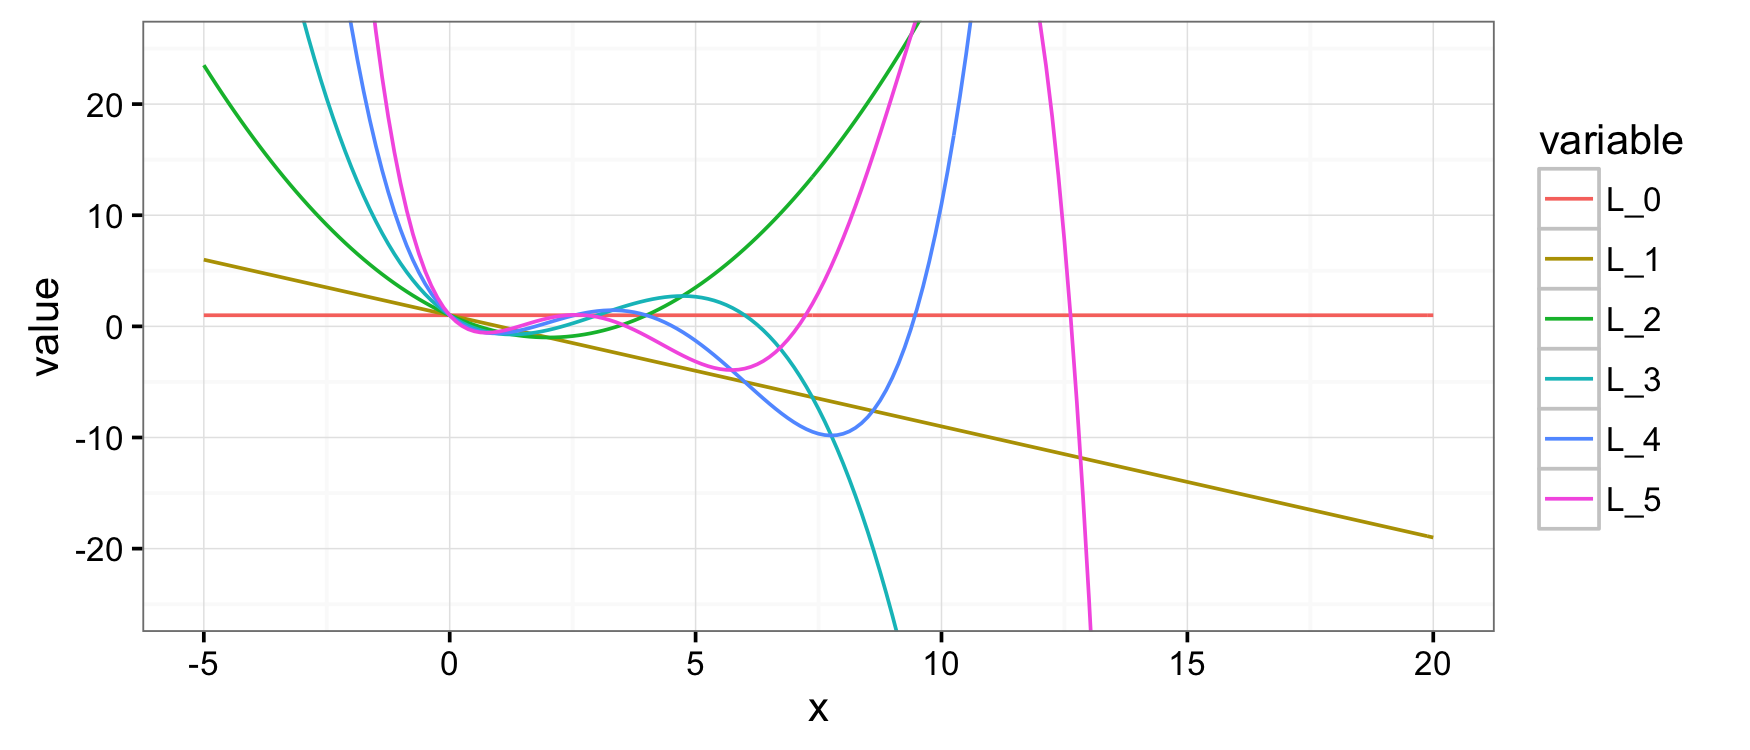
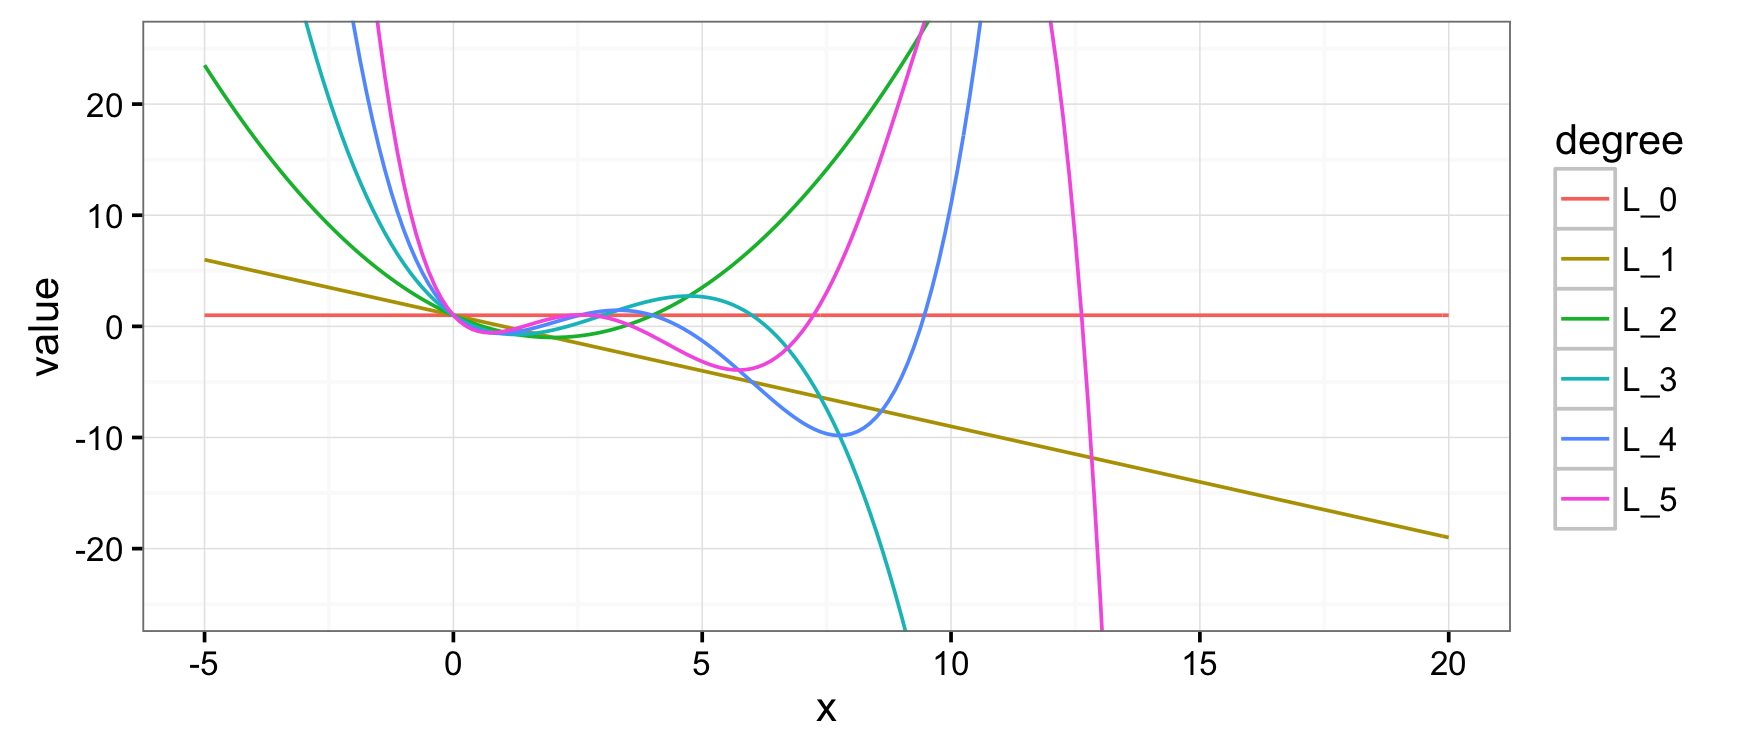
update readme to use tidyr::gather

diff --git a/README.md b/README.md
@@ -160,13 +160,11 @@ Function coercion
 You can turn polynomials and vectors of polynomials into functions you can evaluate with `as.function()`. Here's a basic example using a single multivariate polynomial:
 
 ``` r
-(p <- mp("x + 2 y"))
-#> x  +  2 y
-f <- as.function(p) # makes a function with a vector argument
+f <- as.function(mp("x + 2 y")) # makes a function with a vector argument
 #> f(.) with . = (x, y)
 f(c(1,1))
 #> [1] 3
-f <- as.function(p, vector = FALSE) # makes a function with all arguments
+f <- as.function(mp("x + 2 y"), vector = FALSE) # makes a function with all arguments
 #> f(x, y)
 f(1, 1)
 #> [1] 3
@@ -191,8 +189,7 @@ f(1, 1)
 Whether you're working with a single multivariate polynomial or a vector of them (`mpolyList`), if it/they are actually univariate polynomial(s), the resulting function is vectorized. Here's an example with a single univariate polynomial.
 
 ``` r
-p <- mp("x^2")
-f <- as.function(p)
+f <- as.function(mp("x^2"))
 #> f(.) with . = x
 f(1:3)
 #> [1] 1 4 9
@@ -315,7 +312,7 @@ chebyshev(0:5)
 And you can visualize them:
 
 ``` r
-library(reshape2); library(dplyr)
+library(tidyr); library(dplyr)
 ```
 
 ``` r
@@ -332,8 +329,8 @@ s <- seq(-1, 1, length.out = 201); N <- 5
 df <- as.function(chebPolys)(s) %>% cbind(s, .) %>% as.data.frame
 #> f(.) with . = (x)
 names(df) <- c("x", paste0("T_", 0:N))
-mdf <- melt(df, id = "x")
-qplot(x, value, data = mdf, geom = "path", color = variable)
+mdf <- df %>% gather(degree, value, -x)
+qplot(x, value, data = mdf, geom = "path", color = degree)
 ```
 
 ![](README-chebyshev-1.png)
@@ -353,8 +350,8 @@ s <- seq(-1, 1, length.out = 201); N <- 5
 df <- as.function(jacPolys)(s) %>% cbind(s, .) %>% as.data.frame
 #> f(.) with . = (x)
 names(df) <- c("x", paste0("P_", 0:N))
-mdf <- melt(df, id = "x")
-qplot(x, value, data = mdf, geom = "path", color = variable) +
+mdf <- df %>% gather(degree, value, -x)
+qplot(x, value, data = mdf, geom = "path", color = degree) +
   coord_cartesian(ylim = c(-25, 25))
 ```
 
@@ -375,8 +372,8 @@ s <- seq(-1, 1, length.out = 201); N <- 5
 df <- as.function(legPolys)(s) %>% cbind(s, .) %>% as.data.frame
 #> f(.) with . = (x)
 names(df) <- c("x", paste0("P_", 0:N))
-mdf <- melt(df, id = "x")
-qplot(x, value, data = mdf, geom = "path", color = variable)
+mdf <- df %>% gather(degree, value, -x)
+qplot(x, value, data = mdf, geom = "path", color = degree)
 ```
 
 ![](README-legendre-1.png)
@@ -396,8 +393,8 @@ s <- seq(-3, 3, length.out = 201); N <- 5
 df <- as.function(hermPolys)(s) %>% cbind(s, .) %>% as.data.frame
 #> f(.) with . = (x)
 names(df) <- c("x", paste0("He_", 0:N))
-mdf <- melt(df, id = "x")
-qplot(x, value, data = mdf, geom = "path", color = variable)
+mdf <- df %>% gather(degree, value, -x)
+qplot(x, value, data = mdf, geom = "path", color = degree)
 ```
 
 ![](README-hermite-1.png)
@@ -417,8 +414,8 @@ s <- seq(-5, 20, length.out = 201); N <- 5
 df <- as.function(lagPolys)(s) %>% cbind(s, .) %>% as.data.frame
 #> f(.) with . = (x)
 names(df) <- c("x", paste0("L_", 0:N))
-mdf <- melt(df, id = "x")
-qplot(x, value, data = mdf, geom = "path", color = variable) +
+mdf <- df %>% gather(degree, value, -x)
+qplot(x, value, data = mdf, geom = "path", color = degree) +
   coord_cartesian(ylim = c(-25, 25))
 ```
 
@@ -449,8 +446,8 @@ N <- 5 # number of bernstein polynomials to plot
 df <- as.function(bernPolys)(s) %>% cbind(s, .) %>% as.data.frame
 #> f(.) with . = (x)
 names(df) <- c("x", paste0("B_", 0:N))
-mdf <- melt(df, id = "x")
-qplot(x, value, data = mdf, geom = "path", color = variable)
+mdf <- df %>% gather(degree, value, -x)
+qplot(x, value, data = mdf, geom = "path", color = degree)
 ```
 
 ![](README-bernstein-1.png)
@@ -539,7 +536,7 @@ df$y <- with(df, -x^2 + 2*x - 3 + rnorm(n, 0, 2))
 
 mod <- lm(y ~ x + I(x^2), data = df)
 (p <- mod %>% as.mpoly %>% round)
-#> 2.034 x  -  1.015 x^2  -  2.815
+#> 1.993 x  -  1.012 x^2  -  3.361
 qplot(x, y, data = df) +
   stat_function(fun = as.function(p), colour = 'red')
 #> f(.) with . = x
